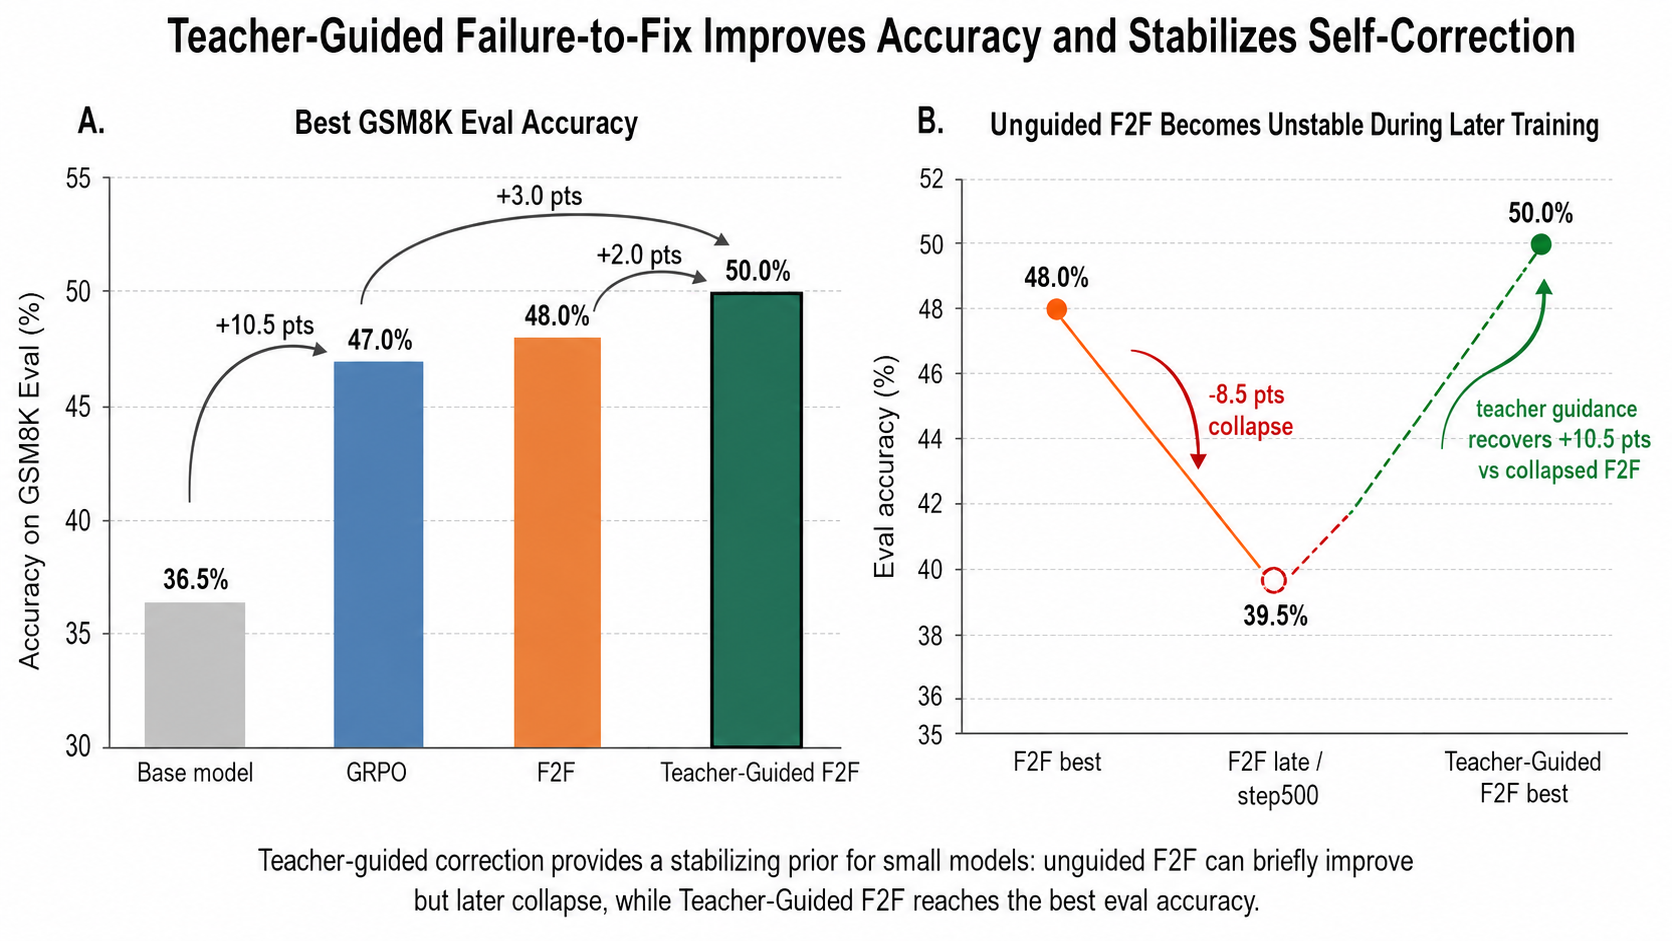
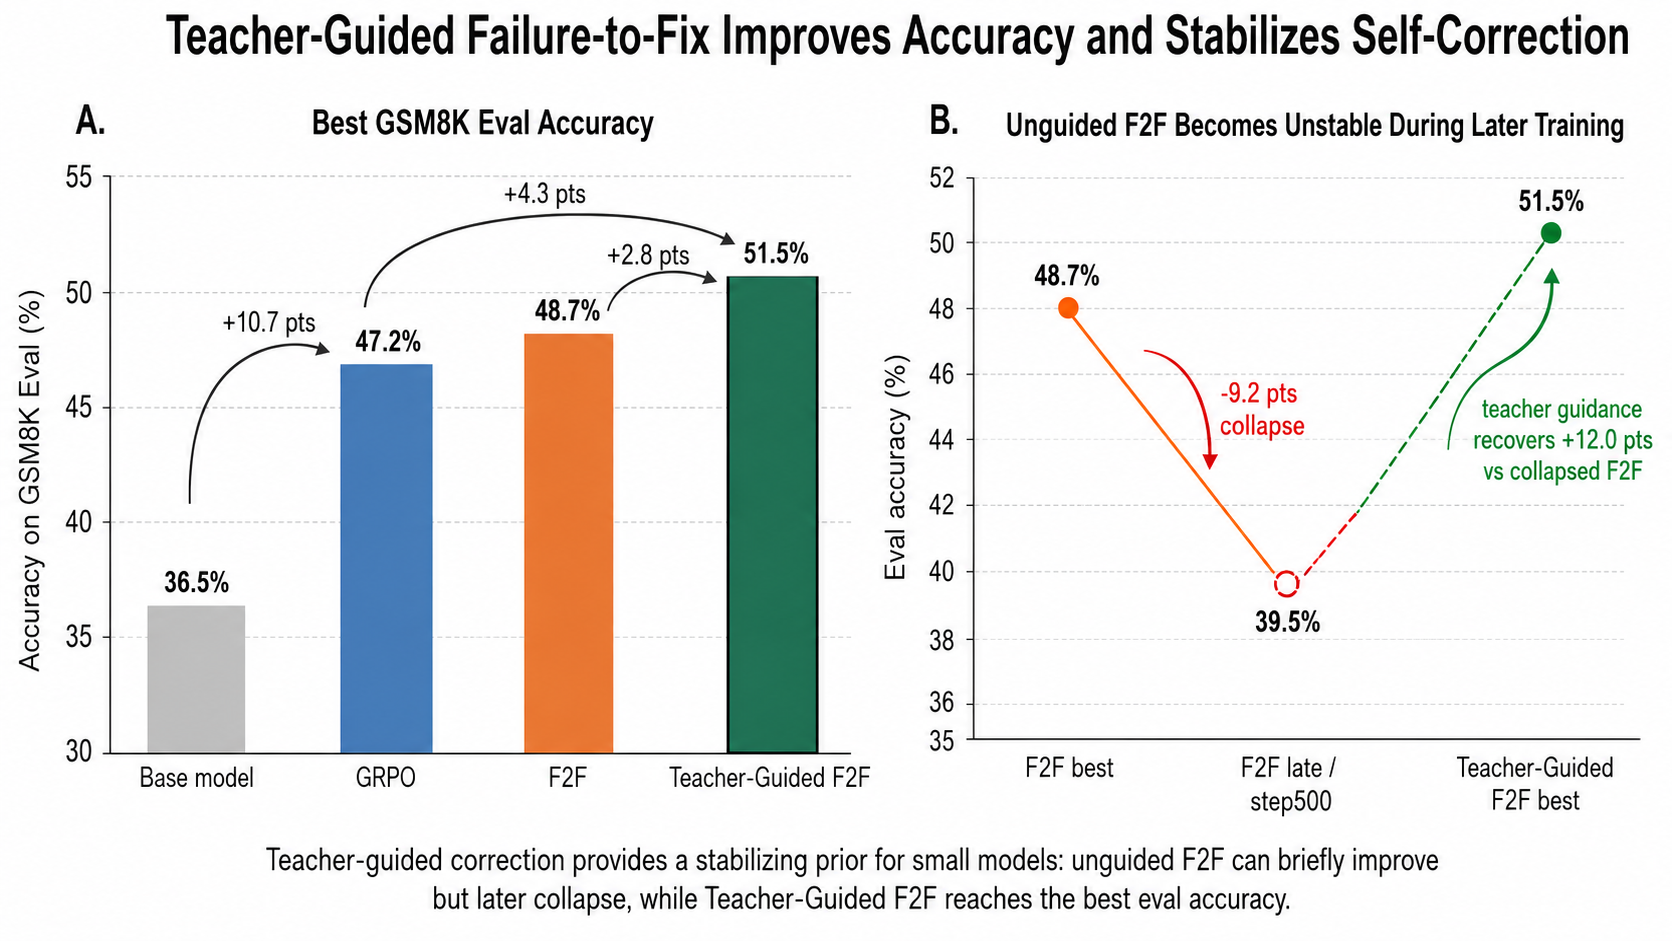
Update eval summary figure and README metrics

diff --git a/README.md b/README.md
@@ -43,7 +43,7 @@ This contrast is the main motivation for the teacher-guided design. For sub-bill
 
 ![Teacher-guided F2F eval summary](assets/f2f_eval_summary.png)
 
-On GSM8K eval, the best observed pilot accuracy was 36.5% for the base model, 47.0% for GRPO, 48.0% for unguided F2F, and 50.0% for Teacher-Guided F2F. The same runs also show why the best-number comparison is not the whole story: unguided F2F briefly improves but later collapses to 39.5%, while Teacher-Guided F2F keeps the best eval score in this pilot comparison.
+On GSM8K eval, the best observed pilot accuracy was 36.5% for the base model, 47.2% for GRPO, 48.7% for unguided F2F, and 51.5% for Teacher-Guided F2F. The same runs also show why the best-number comparison is not the whole story: unguided F2F briefly improves but later collapses from 48.7% to 39.5%, while Teacher-Guided F2F recovers +12.0 points over the collapsed F2F checkpoint and keeps the best eval score in this pilot comparison.
 
 ## Released Teacher-Correction Data
 